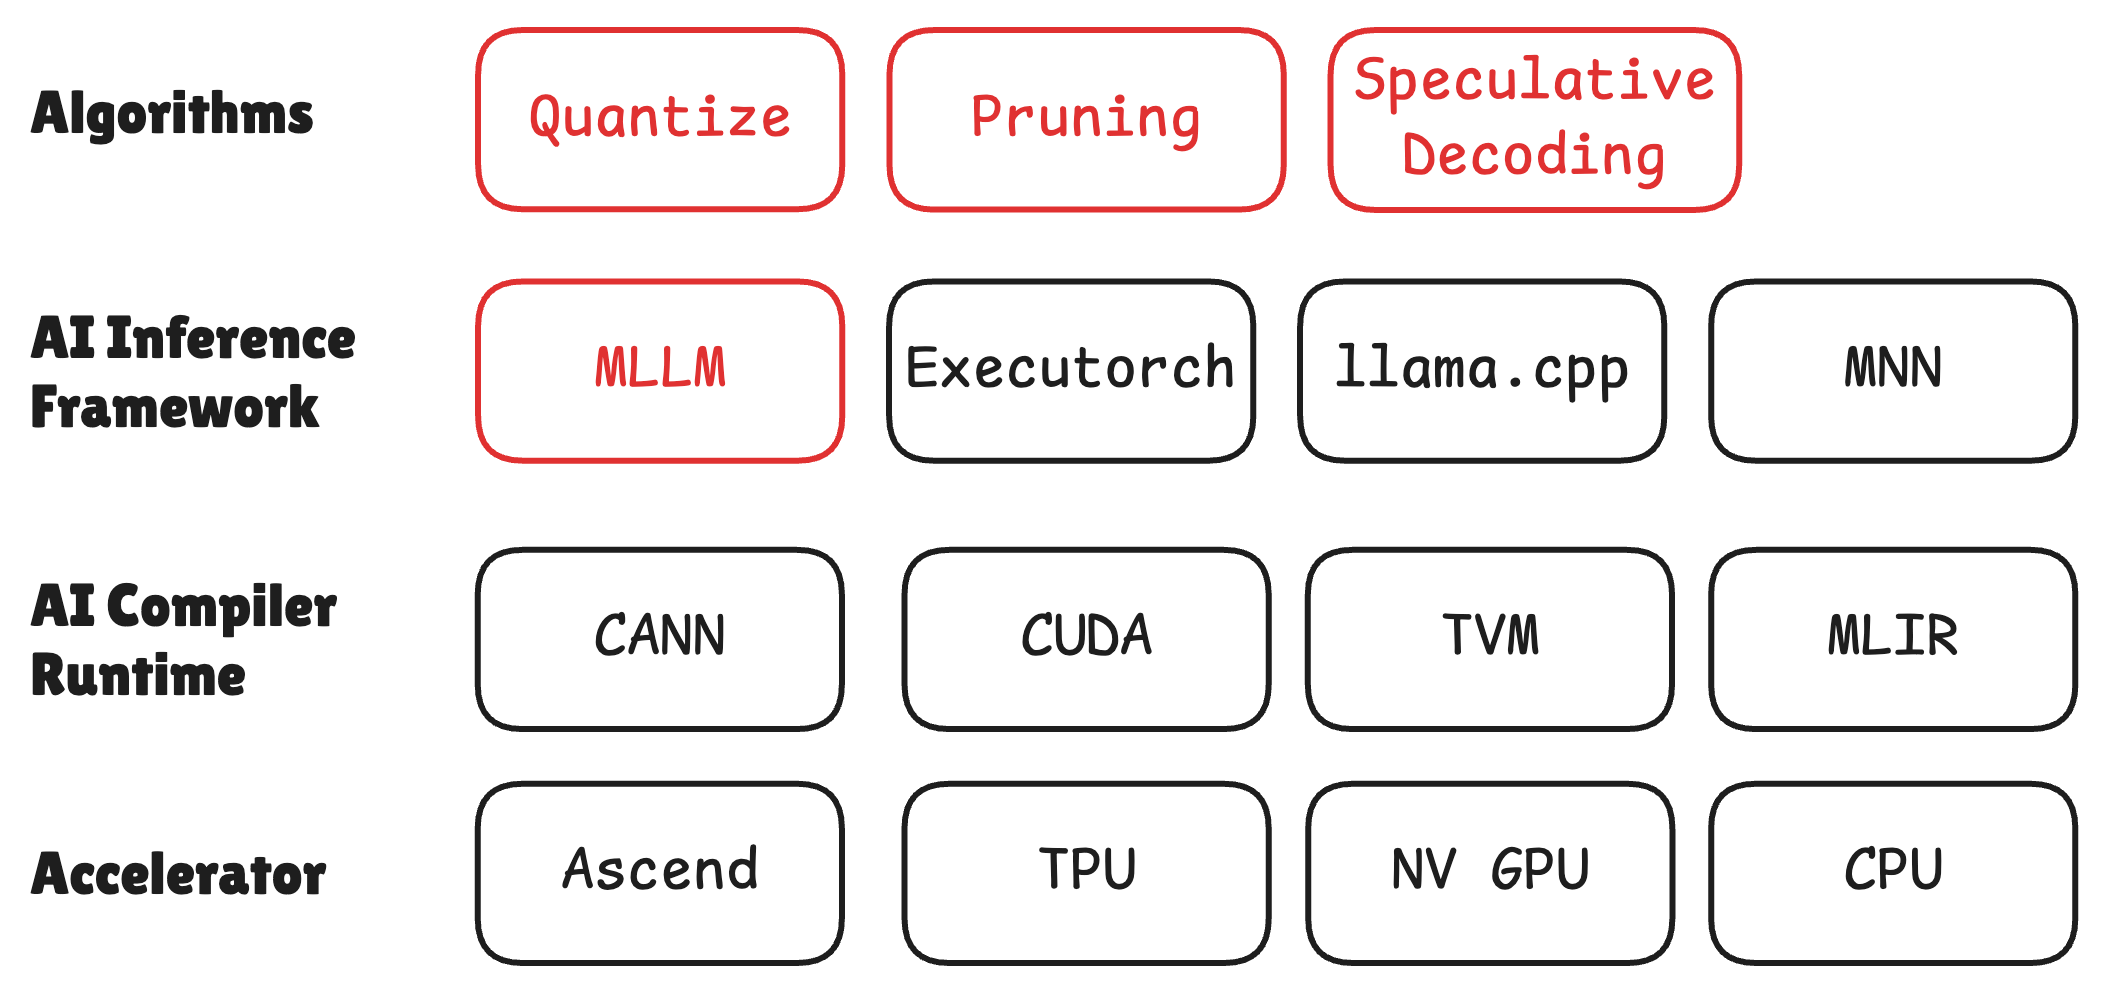
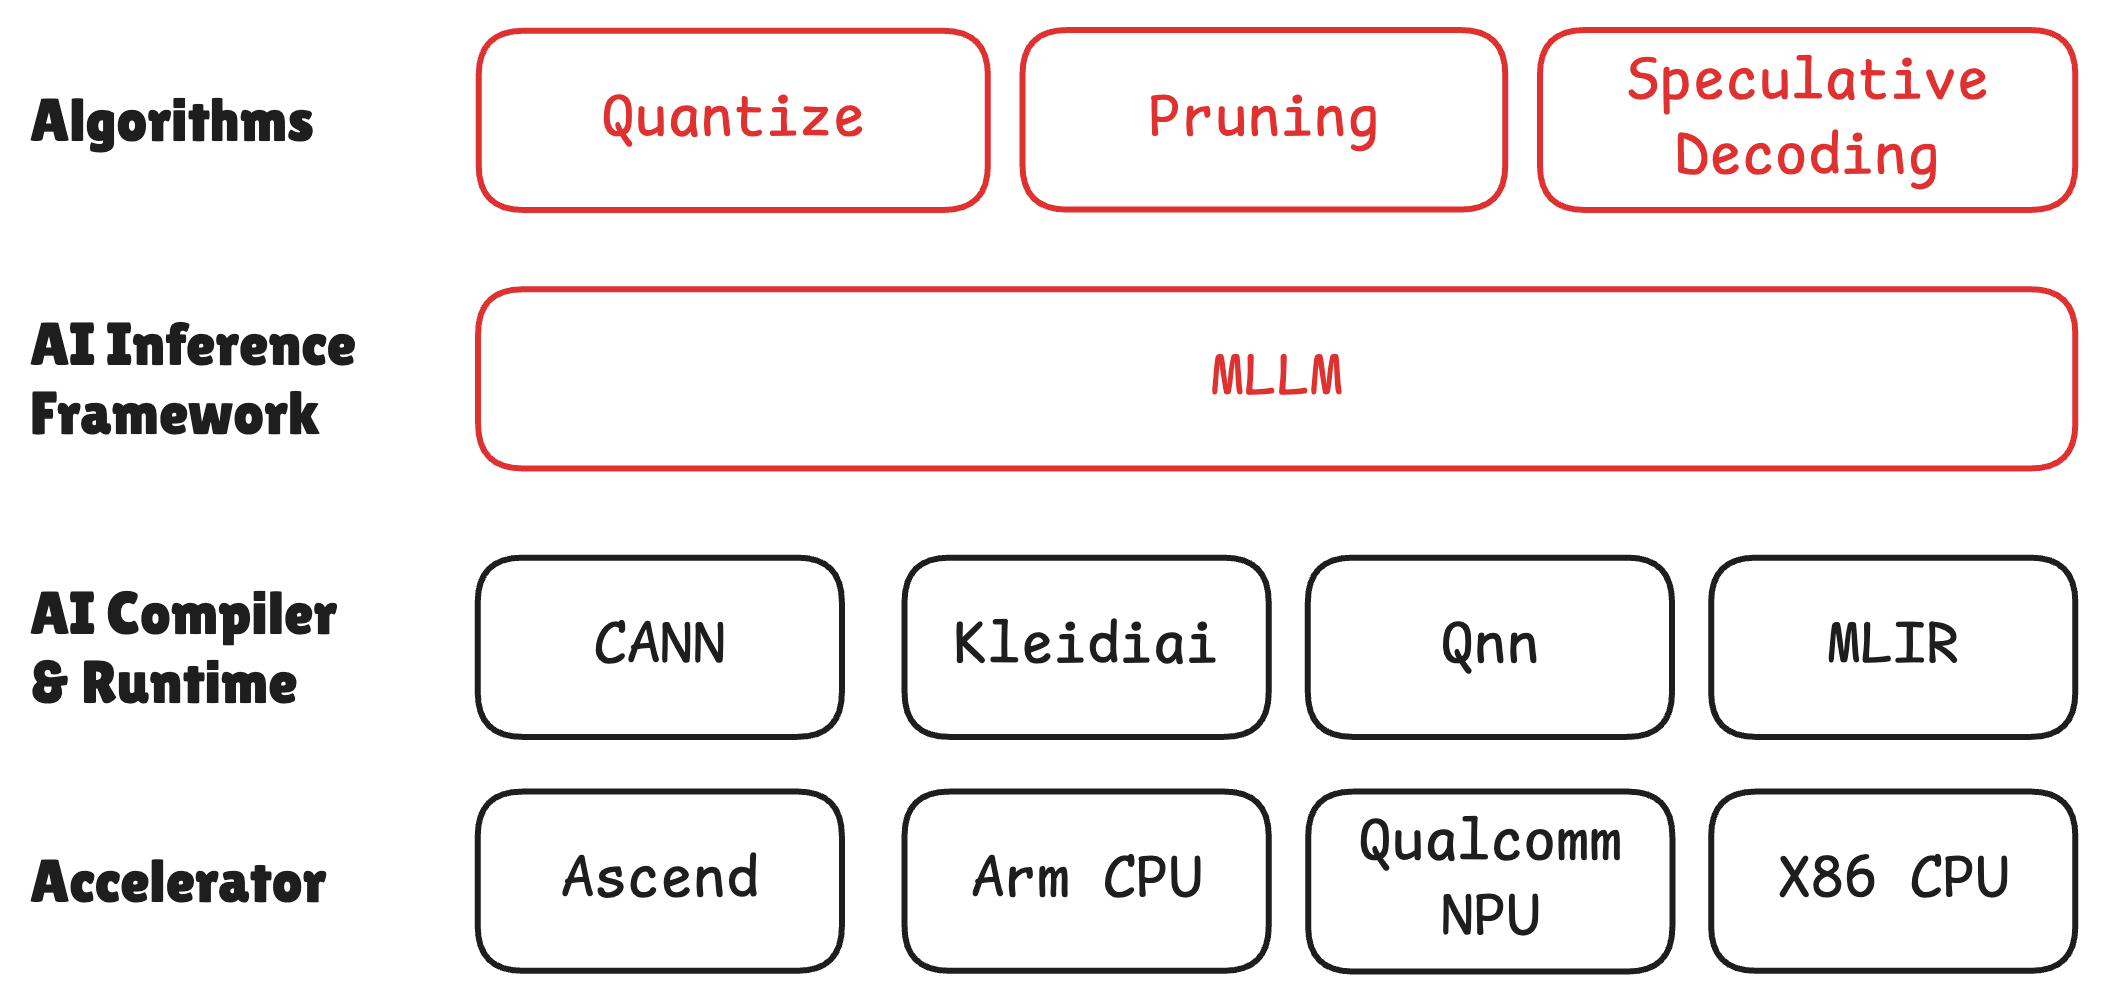
fix(assets): update mllm_role image to reflect recent changes (#548)
* fix(assets): update mllm_role image to reflect recent changes

* fix: update paths to use 'mllm' instead of 'mllm-v2' in workflow and script files

diff --git a/algorithms/lazy_vlm/run_remote_android.py b/algorithms/lazy_vlm/run_remote_android.py
@@ -33,29 +33,29 @@ if __name__ == "__main__":
     print(adb.get_devices())
     adb.push_file(
         "./build-android/lazy_vlm_qwen2vl",
-        "/data/local/tmp/mllm-v2/bin/algorithms/",
+        "/data/local/tmp/mllm/bin/algorithms/",
     )
     adb.push_file(
         "./build-android/lazy_vlm_qwen2_5vl",
-        "/data/local/tmp/mllm-v2/bin/algorithms/",
+        "/data/local/tmp/mllm/bin/algorithms/",
     )
     adb.push_file(
         "./build-android/lazy_vlm_qwen2vl_fast",
-        "/data/local/tmp/mllm-v2/bin/algorithms/",
+        "/data/local/tmp/mllm/bin/algorithms/",
     )
     adb.push_file(
         "./build-android/lazy_vlm_qwen2_5vl_fast",
-        "/data/local/tmp/mllm-v2/bin/algorithms/",
+        "/data/local/tmp/mllm/bin/algorithms/",
     )
     exit(0)
     with adb.get_shell_context() as shell:
         shell.execute("cd /data/local/tmp/mllm/bin/algorithms/")
         shell.execute(
-            "export LD_LIBRARY_PATH=/data/local/tmp/mllm-v2/bin:$LD_LIBRARY_PATH"
+            "export LD_LIBRARY_PATH=/data/local/tmp/mllm/bin:$LD_LIBRARY_PATH"
         )
         # If Using QNN, uncomment the following line
         # shell.execute("export ADSP_LIBRARY_PATH=/data/local/tmp/mllm/lib64")
         res = shell.execute(
-            './lazy_vlm -m /data/local/tmp/mllm-v2/models/Qwen2.5-VL-3B-Instruct/w4a32.mllm -mv v2 -t /data/local/tmp/mllm-v2/models/Qwen2.5-VL-3B-Instruct/tokenizer.json -c /data/local/tmp/mllm-v2/models/Qwen2.5-VL-3B-Instruct/config_w4a32.json -p "Describe this image" -i /data/local/tmp/mllm-v2/bin/gafei.jpeg -s normal'
+            './lazy_vlm -m /data/local/tmp/mllm/models/Qwen2.5-VL-3B-Instruct/w4a32.mllm -mv v2 -t /data/local/tmp/mllm/models/Qwen2.5-VL-3B-Instruct/tokenizer.json -c /data/local/tmp/mllm/models/Qwen2.5-VL-3B-Instruct/config_w4a32.json -p "Describe this image" -i /data/local/tmp/mllm/bin/gafei.jpeg -s normal'
         )
         print(res)

diff --git a/playground/cache_reduced_computation/run_remote_android.py b/playground/cache_reduced_computation/run_remote_android.py
@@ -33,5 +33,5 @@ if __name__ == "__main__":
     print(adb.get_devices())
     adb.push_file(
         "./build-android/cache_reduced_computation",
-        "/data/local/tmp/mllm-v2/bin/playground/",
+        "/data/local/tmp/mllm/bin/playground/",
     )
